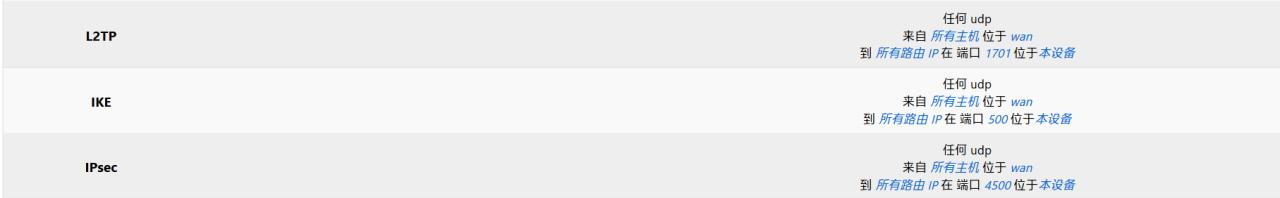
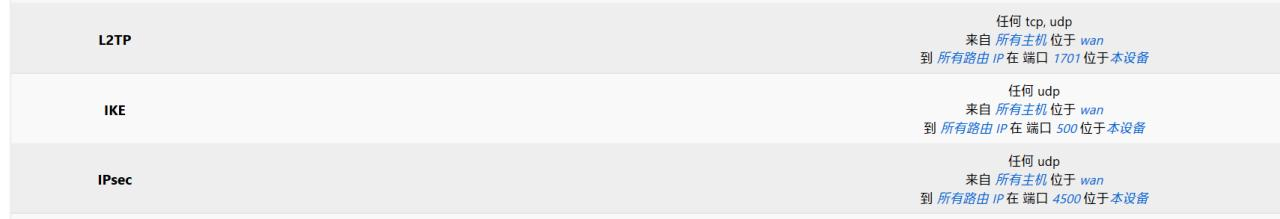
update post

diff --git a/source/_posts/softether-l2tp-openwrt.md b/source/_posts/softether-l2tp-openwrt.md
@@ -49,7 +49,7 @@ Openwrt配置
 
 | 名称  | 协议 | 外部端口 |
 | ----- | ---- | -------- |
-| L2TP  | UDP  | 1701     |
+| L2TP  | TCP + UDP  | 1701     |
 | IKE   | UDP  | 500      |
 | IPsec | UDP  | 4500     |
 
